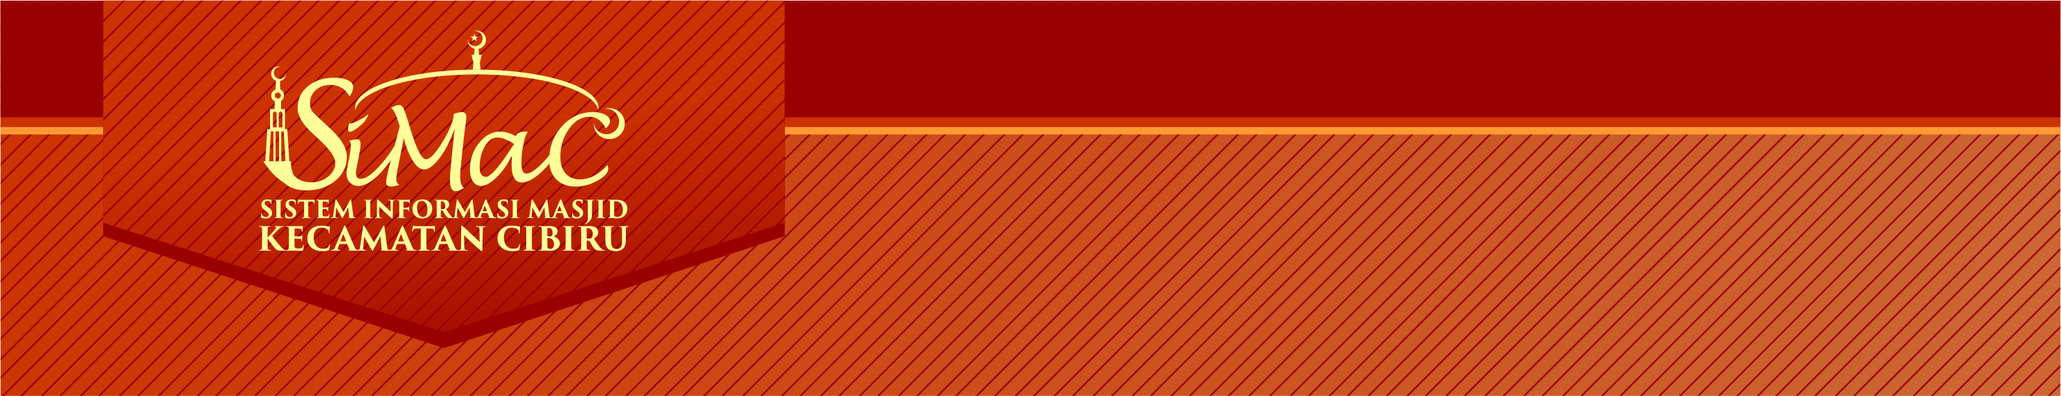
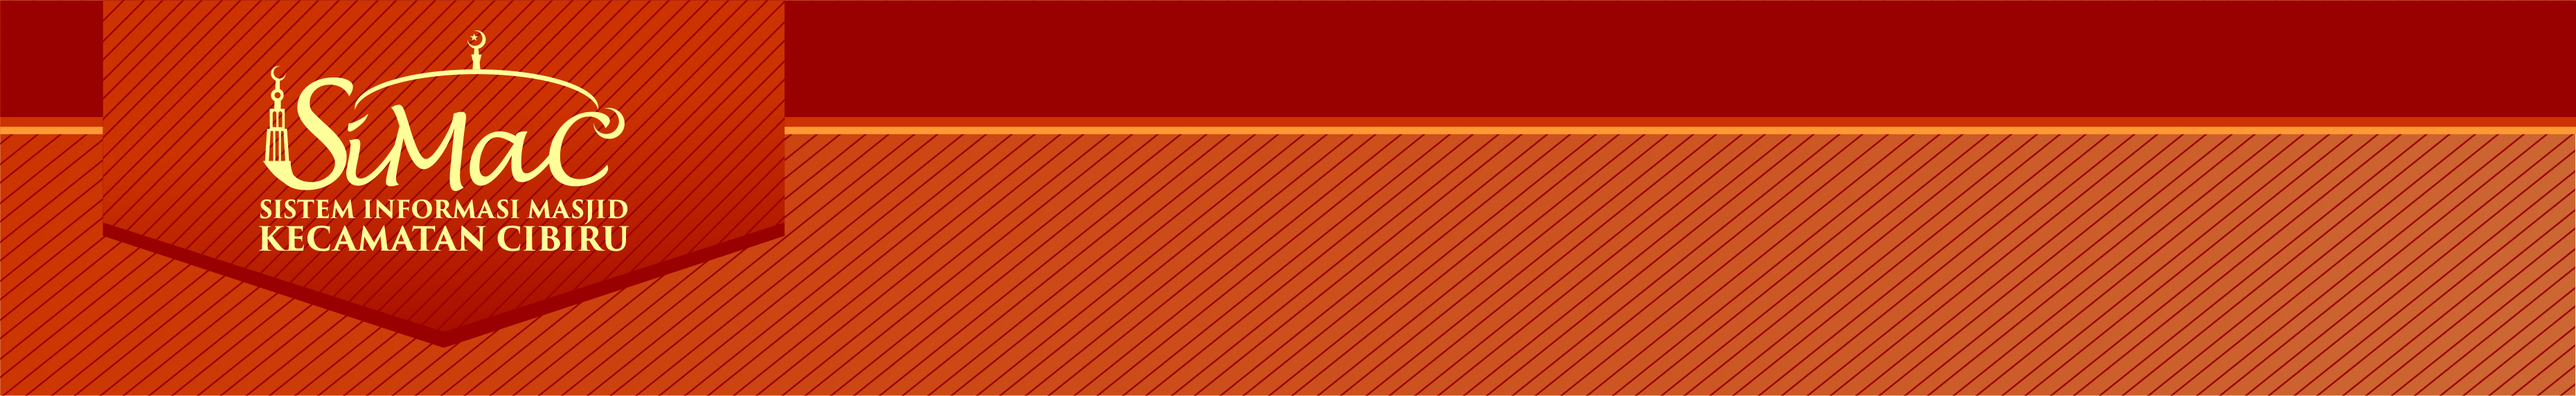
update gambar slide, trus sedikit perubahan bootstrap.css, ganti background, update header, hapus gambar yg ga kepakek :D

Changed region(s): [[0.0312, 0.0, 0.4061, 0.8916], [0.0, 0.0, 1.0, 1.0]]

diff --git a/public/css/bootstrap.css b/public/css/bootstrap.css
@@ -12,6 +12,7 @@ html {
 body {
   margin: 0;
   background: url(/../images/bg.jpg);
+  background-size: cover;
 }
 article,
 aside,
@@ -4974,20 +4975,22 @@ a.badge:focus {
 .jumbotron {
   padding-top: 30px;
   padding-bottom: 30px;
-  margin-top: -2px;
-  margin-bottom: 40px;
+  margin-top: 2px;
+  margin-bottom: 20px;
   margin-left: 185px;
   margin-right: 185px;
   color: inherit;
-  background-color: #eee;
   height: 150px;
+  background: url(/../images/header1.png);
+  background-size: cover;
+
 }
 .jumbotron h1,
 .jumbotron .h1 {
   color: inherit;
 }
 .jumbotron p {
-  margin-bottom: 15px;
+  margin-bottom: 20px;
   font-size: 21px;
   font-weight: 200;
 }
